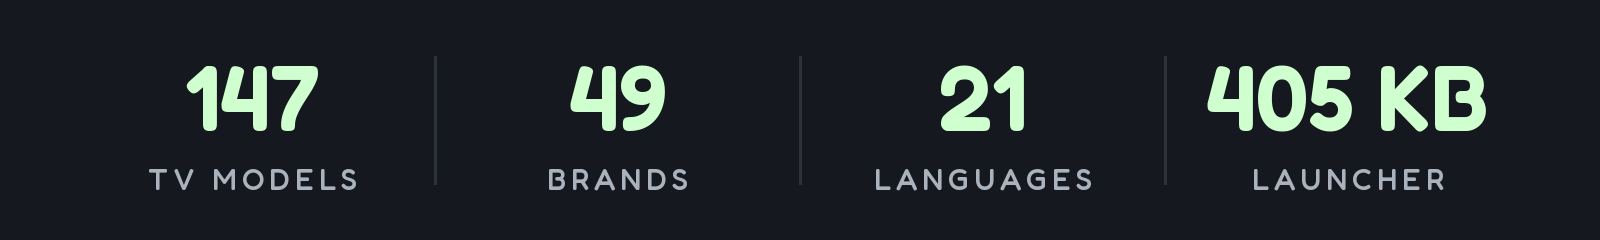
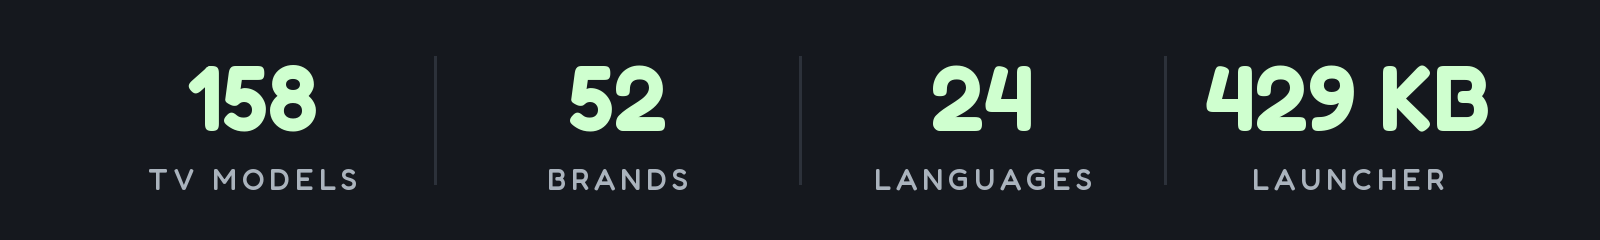
README: counts after Round L (158 TV models, 52 brands, 24 languages, 429 KB launcher)

diff --git a/tools/readme_stats.py b/tools/readme_stats.py
@@ -5,7 +5,7 @@ and rebuild the card with tools/readme_card.py. Fredoka is the variable TTF from
 import sys
 from PIL import Image, ImageDraw, ImageFont
 FONT, OUT = sys.argv[1], sys.argv[2]
-STATS = [("147", "TV MODELS"), ("49", "BRANDS"), ("21", "LANGUAGES"), ("405 KB", "LAUNCHER")]
+STATS = [("158", "TV MODELS"), ("52", "BRANDS"), ("24", "LANGUAGES"), ("429 KB", "LAUNCHER")]
 W, H = 1600, 240
 img = Image.new("RGB", (W, H), "#15181e"); d = ImageDraw.Draw(img)
 def f(size, wt):

diff --git a/README.md b/README.md
@@ -13,7 +13,7 @@
 </p>
 
 <p align="center">
-  <a href="docs/PRESS.md"><img src="docs/card.jpg" alt="147 TV models · 49 brands · 21 languages · 405 KB launcher. Featured in TechCrunch, TechRadar, Tom's Guide, Mashable, Android Authority, XDA, FlatpanelsHD, It's FOSS, Phandroid, GIGAZINE, Xataka, WinFuture, Frandroid, Macitynet, Techaeris, TechPP and 57 more: 73 articles from 21 countries. Before: stock Google TV home with a sponsored ad. After: the Clean Your TV launcher." width="800"></a>
+  <a href="docs/PRESS.md"><img src="docs/card.jpg" alt="158 TV models · 52 brands · 24 languages · 429 KB launcher. Featured in TechCrunch, TechRadar, Tom's Guide, Mashable, Android Authority, XDA, FlatpanelsHD, It's FOSS, Phandroid, GIGAZINE, Xataka, WinFuture, Frandroid, Macitynet, Techaeris, TechPP and 57 more: 73 articles from 21 countries. Before: stock Google TV home with a sponsored ad. After: the Clean Your TV launcher." width="800"></a>
 </p>
 
 > Vibe coded my parents' TV this afternoon! It was showing a sponsored ad before you could even get
@@ -293,7 +293,7 @@ tools/theme.sh themes/aurora                                 # push a theme; --r
 | [`tools/check.py`](tools/check.py) | Compares the TV with the list that was applied, for what a firmware update undid; `--fix` puts it back. |
 | [`tools/theme.sh`](tools/theme.sh) | Push a folder from [`themes/`](themes/) to the launcher and restart Home. |
 | [`tools/race_calendar.py`](tools/race_calendar.py) | Writes this season's F1 calendar into a theme for race-weekend mode, from the free Jolpica API. |
-| [`launcher/build-and-install.sh`](launcher/build-and-install.sh) | Builds a shrunk release (about 405 KB), installs it, switches Home, and rolls back if Home does not land on it. |
+| [`launcher/build-and-install.sh`](launcher/build-and-install.sh) | Builds a shrunk release (about 429 KB), installs it, switches Home, and rolls back if Home does not land on it. |
 
 Debloat list paths passed to `disable.sh` and `restore.sh` are relative to the directory you run
 from, so your own lists can live outside the repository. Absolute paths also work.
@@ -319,7 +319,7 @@ the new launcher Home and the entry is applied; `FORCE_HOME=1` (`$env:FORCE_HOME
 
 ## The launcher
 
-A small native Android TV app (`com.gathin.tvhome`, about 405 KB installed) in plain Java with
+A small native Android TV app (`com.gathin.tvhome`, about 429 KB installed) in plain Java with
 AndroidX RecyclerView and nothing heavier. Built for sets with 1 GB of RAM: no blur, no video, no
 network, no background services. It needs JDK 17 and Android SDK platform 34 to build; on macOS,
 `brew install openjdk@17 android-commandlinetools` and `sdkmanager "platforms;android-34" "build-tools;34.0.0"`. On Linux
